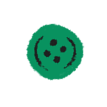
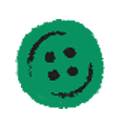
added button:active + contoh layout event + printilan layout lain

diff --git a/pages/events.vue b/pages/events.vue
@@ -6,6 +6,11 @@
       <div class="box">
         <img src="/events/kain.png" class="kain">
 
+        <div class="kancing">
+          <img src="/events/kancing.png" class="kncg">
+          <img src="/events/kancing2.png" class="kncg2">
+        </div>
+
         <div class="isibox">
           <!-- nyomot dari w3 hehe ^-^ -->
             <div class="tanggal">
@@ -18,6 +23,8 @@
               <button class="tablink" v-on:click="getevent(28)">28</button>
             </div>
 
+            <img src="/events/garis.png" class="garis">
+
             <!--<div id="22" class="tabcontent">isi 22</div>
             <div id="23" class="tabcontent">isi 23</div>
             <div id="24" class="tabcontent">isi 24</div>
@@ -26,7 +33,22 @@
             <div id="27" class="tabcontent">isi 27</div>
             <div id="28" class="tabcontent">isi 28</div>-->
             <br><br>
-            <div class="tabcontent" style="display:block" v-html="eventout"></div>
+
+
+            <!-- contoh layout eventnya
+            <div id="22" class="tabcontent">
+              <div class="jam">17.00</div>
+              <div class="acara">
+                Workshop
+                <br>Bersama Siapa Hayo
+                <br><a href="">bit.ly/ape</a>
+              </div>
+            </div>
+            -->
+
+            <div class="tabcontent" style="display:block" v-html="eventout">
+              
+            </div>
 
           <!--<br><br>
           <center>
@@ -182,8 +204,10 @@ export default {
   }
 
   a {
-    color: #d1bb10;
+    color: #1f1f1f;
     text-decoration: none;
+    font-family: 'Mechanical Pencil';
+    font-size: 30px;
   }
 
   a:hover {
@@ -215,10 +239,16 @@ export default {
   }
 
   .tabcontent {
-    display: none;
+    display: flex;
+    flex-direction: row;
+  }
+
+  .acara {
+    padding-left: 50px;
   }
 
   .judul {
+    margin-top: -30px;
     width: 525px;
   }
 
@@ -233,6 +263,30 @@ export default {
   .kain {
     width: 975px;
     margin-top: -25px;
+  }
+
+  .kancing {
+    display: flex;
+    flex-direction: row;
+    justify-content: space-between;
+    align-items: flex-start;
+    margin-top: -100px;
+  }
+
+  .kncg {
+    width: 85px;  
+    margin-left: -465px;
+  }
+
+  .kncg2 {
+    width: 95px;
+    margin-right: -500px;
+    margin-top: 30px;
+  }
+
+  .garis {
+    width: 850px;
+    margin-top: -20px;
   }
 
   .isibox {

diff --git a/pages/eventslayout.vue b/pages/eventslayout.vue
@@ -5,6 +5,11 @@
 
       <div class="box">
         <img src="/events/kain.png" class="kain">
+        
+        <div class="kancing">
+          <img src="/events/kancing.png" class="kncg">
+          <img src="/events/kancing2.png" class="kncg2">
+        </div>
 
         <div class="isibox">
           <!-- nyomot dari w3 hehe ^-^ -->
@@ -18,7 +23,16 @@
               <button class="tablink" onclick="openPage('28')">28</button>
             </div>
 
-            <div id="22" class="tabcontent">isi 22</div>
+            <img src="/events/garis.png" class="garis">
+
+            <div id="22" class="tabcontent">
+              <div class="jam">17.00</div>
+              <div class="acara">
+                Workshop
+                <br>Bersama Siapa Hayo
+                <br><a href="">bit.ly/ape</a>
+              </div>
+            </div>
             <div id="23" class="tabcontent">isi 23</div>
             <div id="24" class="tabcontent">isi 24</div>
             <div id="25" class="tabcontent">isi 25</div>
@@ -135,9 +149,9 @@ export default {
 <style lang="scss" scoped>
   * {
     font-family: 'KG Happy Solid';
-    font-size: 20px;
+    font-size: 25px;
     color: #1f1f1f;
-    text-align: center;
+    text-align: left;
   }
 
   .container {
@@ -159,8 +173,10 @@ export default {
   }
 
   a {
-    color: #d1bb10;
+    color: #1f1f1f;
     text-decoration: none;
+    font-family: 'Mechanical Pencil';
+    font-size: 30px;
   }
 
   a:hover {
@@ -185,7 +201,12 @@ export default {
   }
 
   .tabcontent {
-    display: none;
+    display: flex;
+    flex-direction: row;
+  }
+
+  .acara {
+    padding-left: 50px;
   }
 
   .judul {
@@ -203,6 +224,30 @@ export default {
   .kain {
     width: 975px;
     margin-top: -25px;
+  }
+
+  .kancing {
+    display: flex;
+    flex-direction: row;
+    justify-content: space-between;
+    align-items: flex-start;
+    margin-top: -100px;
+  }
+
+  .kncg {
+    width: 85px;  
+    margin-left: -465px;
+  }
+
+  .kncg2 {
+    width: 95px;
+    margin-right: -500px;
+    margin-top: 30px;
+  }
+
+  .garis {
+    width: 850px;
+    margin-top: -20px;
   }
 
   .isibox {
